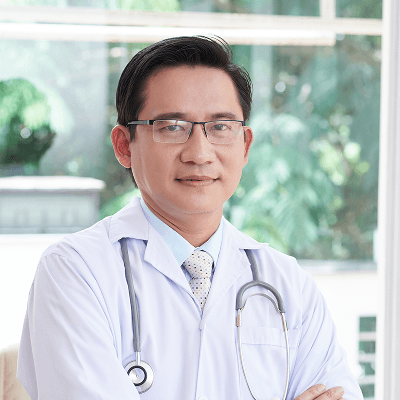
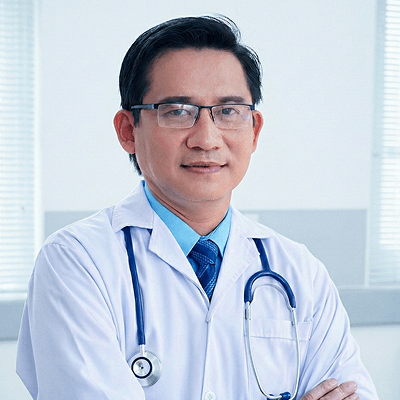
design: 웰라이프 프로젝트 의사 이미지 변경

diff --git a/portfolio/well-life/css/pages/appointment/appointment.css b/portfolio/well-life/css/pages/appointment/appointment.css
@@ -247,13 +247,14 @@
 /* appointment-form__item - 담당 의료진 */
 .appointment-form__item-doctor {
   display: flex;
-  gap: var(--spacing-24);
+  gap: var(--spacing-32);
 }
-.appointment-form__item-doctor-image {
+.appointment-form__item-doctor-face {
   width: calc(400px / 4);
   height: calc(400px / 4);
   border-radius: 8px;
   overflow: hidden;
+  filter: drop-shadow(0 4px 10px rgba(0, 0, 0, 0.1));
 }
 .appointment-form__item-doctor-info {
   display: flex;
@@ -289,7 +290,7 @@
   display: flex;
   align-items: center;
   flex-shrink: 0;
-  width: 120px;
+  width: 130px;
 }
 .appointment-form__item-patient-input-wrap label .required-mark {
   position: relative;

diff --git a/portfolio/well-life/pages/appointment.html b/portfolio/well-life/pages/appointment.html
@@ -169,7 +169,7 @@
               <div class="appointment-form__item">
                 <b class="appointment-form__item-title">담당 의료진</b>
                 <div class="appointment-form__item-doctor">
-                  <div class="appointment-form__item-doctor-image img-box">
+                  <div class="appointment-form__item-doctor-face img-box">
                     <img src="../images/appointment/appointment-doctor-image.png" alt="담당 의사 이미지">
                   </div>
                   <div class="appointment-form__item-doctor-info">

diff --git a/portfolio/well-life/css/pages/appointment/appointment-responsive.css b/portfolio/well-life/css/pages/appointment/appointment-responsive.css
@@ -85,6 +85,11 @@
   .appointment-form__item-time-item span {
     transform: translateY(1px);
   }
+
+  /* appointment-form__item - 담당 의료진 */
+  .appointment-form__item-doctor {
+    gap: var(--spacing-24);
+  }
   
   /* appointment-form__item - 환자 정보 */
   .appointment-form__item-patient-input-wrap {
